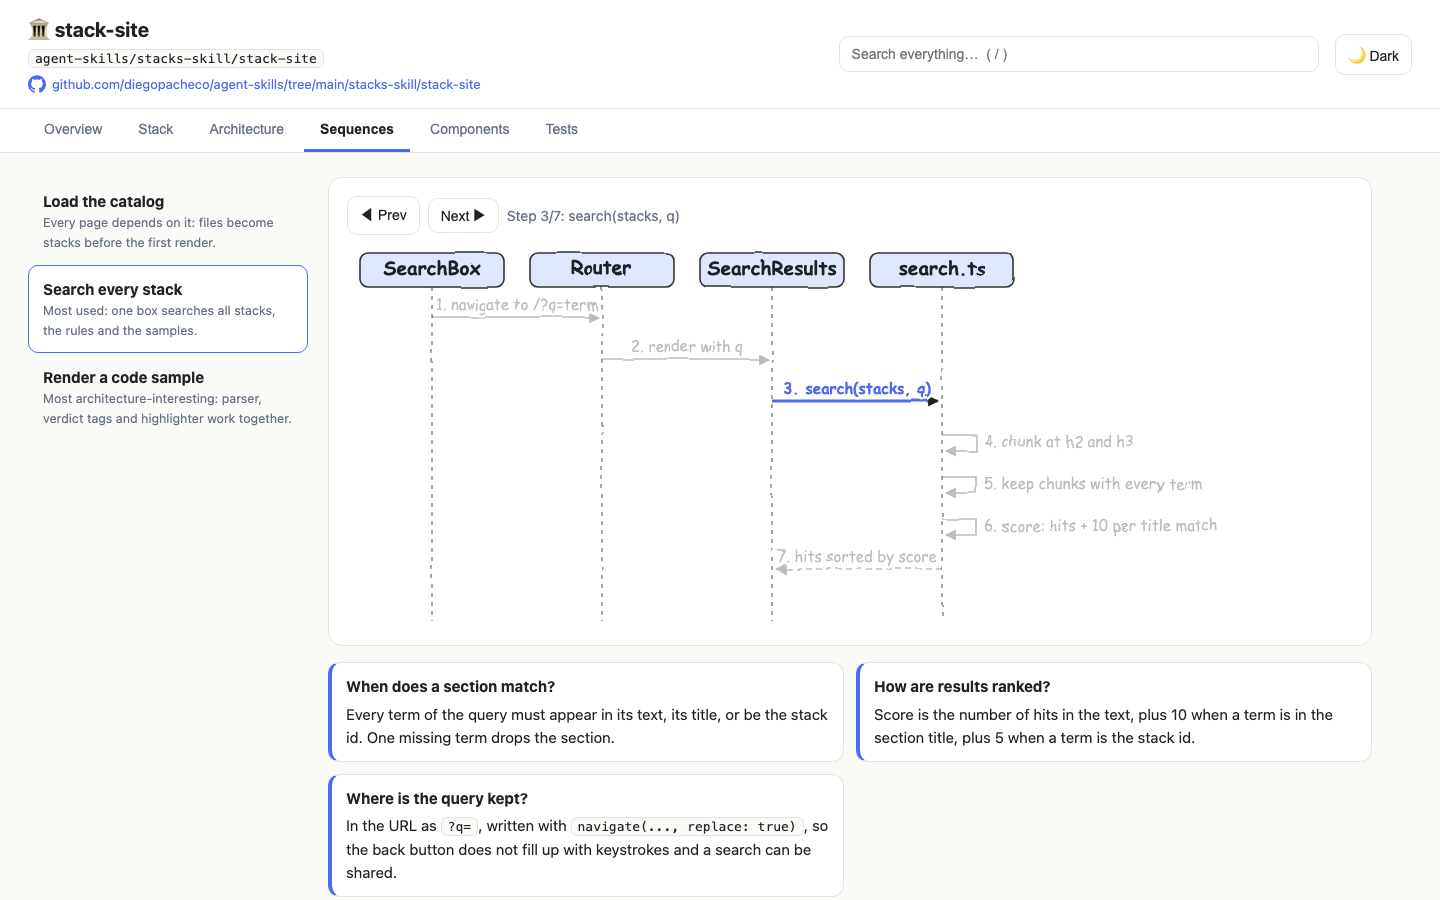
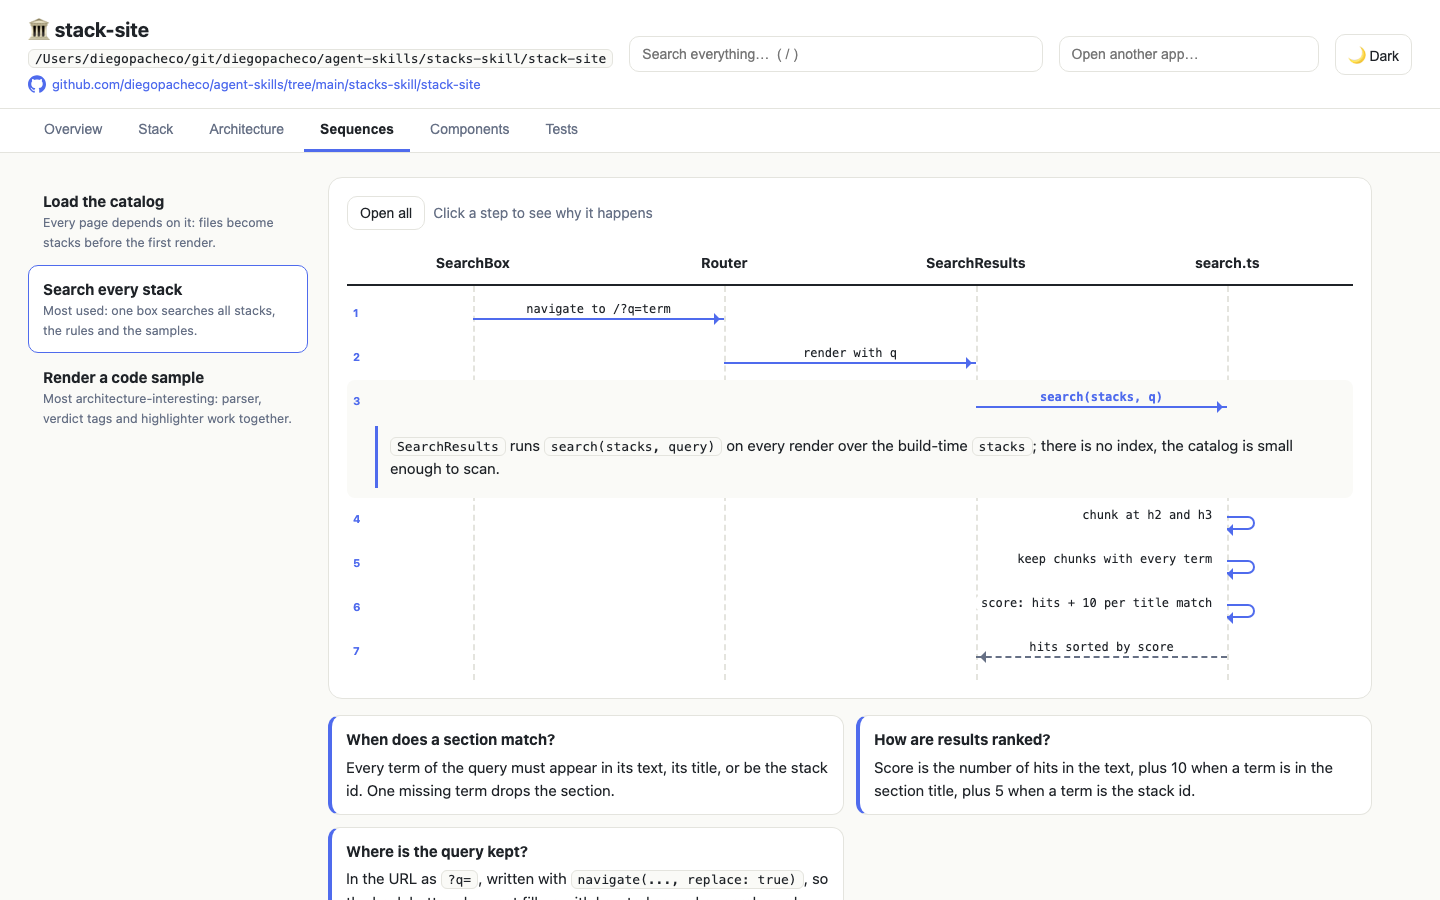
architecture-doc-skill: improve skill

diff --git a/architecture-docs-skill/template/site.html b/architecture-docs-skill/template/site.html
@@ -23,6 +23,14 @@ table{width:100%;border-collapse:collapse}td,th{text-align:left;padding:9px 10px
 .ico{width:18px;height:18px;flex:none}
 .tabs{display:flex;gap:4px;padding:0 28px;background:var(--card);border-bottom:1px solid var(--line);overflow-x:auto}.tabs button{border:0;background:none;color:var(--mute);padding:12px 16px;font-size:14px;cursor:pointer;border-bottom:3px solid transparent;white-space:nowrap}.tabs button.on{color:var(--ink);border-color:var(--acc);font-weight:700}
 .pane{padding:24px 28px;max-width:1400px}.md{display:grid;grid-template-columns:280px 1fr;gap:20px}.list div{padding:12px 14px;border-radius:10px;cursor:pointer;border:1px solid transparent}.list div:hover{background:var(--card)}.list div.on{background:var(--card);border-color:var(--acc)}.list small{display:block;color:var(--mute)}
+.swim .heads{display:grid;grid-template-columns:repeat(var(--n),1fr);position:sticky;top:0;background:var(--card);border-bottom:2px solid var(--ink);z-index:2}.swim .heads div{padding:10px 6px;text-align:center;font-weight:700;font-size:14px}
+.swim .rows{position:relative;padding:6px 0}.swim .rows>i{position:absolute;top:0;bottom:0;border-left:2px dashed var(--line)}
+.sl{position:relative;padding:12px 0 6px;cursor:pointer;border-radius:8px}.sl:hover{background:var(--bg)}.sl .num{position:absolute;left:6px;top:12px;font-size:11px;color:var(--acc)}
+.arw{position:relative;height:26px}.bar{position:absolute;top:14px;height:2px;background:var(--acc)}.bar:after{content:"";position:absolute;right:-2px;top:-5px;border:6px solid transparent;border-left-color:var(--acc)}
+.bar.back{background:none;border-top:2px dashed var(--mute);height:0}.bar.back:after{right:auto;left:-2px;top:-7px;border-left-color:transparent;border-right-color:var(--mute)}
+.bar.self{width:28px;height:14px;top:6px;background:none;border:2px solid var(--acc);border-left:0;border-radius:0 8px 8px 0}.bar.self:after{right:auto;left:-6px;top:6px;border-left-color:transparent;border-right-color:var(--acc)}
+.lbl{position:absolute;top:-2px;font:12px ui-monospace,Menlo,monospace;background:var(--card);padding:0 5px;white-space:nowrap;border-radius:4px}.lbl.mid{transform:translateX(-50%)}.lbl.lft{transform:translateX(-100%)}.sl:hover .lbl{background:var(--bg)}
+.sl .why{display:none;margin:8px 12px 4px 28px;border-left:3px solid var(--acc);background:var(--bg);padding:8px 12px;border-radius:0 8px 8px 0;cursor:auto}.sl.open .why{display:block}.sl.open .lbl{color:var(--acc);font-weight:700}
 .ctrl{display:flex;gap:8px;align-items:center;margin-bottom:12px}.ctrl span{color:var(--mute);font-size:14px}
 .about{margin-top:16px}.about h3{margin:0 0 8px}.about ol{margin:0;padding-left:22px}.about li{margin:4px 0}
 .notes{display:grid;grid-template-columns:1fr 1fr;gap:12px;margin-top:16px}.note{border:1px solid var(--line);border-left:4px solid var(--acc);border-radius:12px;padding:12px 14px;background:var(--card)}.note b{display:block;margin-bottom:4px}
@@ -74,19 +82,16 @@ function archSvg() {
   const nodes = ns.map(x => `<g class="node"><rect x="${x.x}" y="${x.y}" width="${NW}" height="${NH}" rx="10" fill="${KIND[x.kind] || KIND.core}"/><text x="${x.x + NW / 2}" y="${x.y + 26}" text-anchor="middle" class="t1"${fit(x.label, 16, NW - 14)}>${esc(x.label)}</text><text x="${x.x + NW / 2}" y="${x.y + 46}" text-anchor="middle" class="t2"${fit(x.sub || "", 21, NW - 14)}>${esc(x.sub)}</text></g>`).join("");
   return `<svg class="hand" viewBox="0 0 ${w} ${h}" style="max-width:${w * 1.4}px">${FILTER}<g filter="url(#wob)">${edges}${nodes}</g></svg>`;
 }
-function seqSvg(seq, active) {
-  const gap = 170, top = 50, row = 42, h = top + seq.steps.length * row + 30;
-  const xi = a => seq.actors.indexOf(a) * gap + gap / 2;
-  const selfEnd = seq.steps.flatMap(([f, t, l], i) => f === t ? [xi(f) + 42 + (String(i + 1).length + 2 + l.length) * 8] : []);
-  const w = Math.max(seq.actors.length * gap, ...selfEnd.map(x => x + 10));
-  const heads = seq.actors.map(a => `<rect x="${xi(a) - 72}" y="6" width="144" height="34" rx="8" fill="${KIND.core}"/><text x="${xi(a)}" y="28" text-anchor="middle" class="t1"${fit(a, 13, 130)}>${esc(a)}</text><line x1="${xi(a)}" y1="40" x2="${xi(a)}" y2="${h}" class="life"/>`).join("");
-  const msgs = seq.steps.map(([f, t, l], i) => {
-    const y = top + i * row + 20, x1 = xi(f), x2 = xi(t), dim = active >= 0 && i !== active ? 0.3 : 1;
-    if (f === t) return `<g class="msg ${i === active ? "lit" : ""}" opacity="${dim}"><path class="self" d="M${x1},${y - 8} h34 v16 h-30" marker-end="url(#arr)"/><text x="${x1 + 42}" y="${y + 4}">${i + 1}. ${esc(l)}</text></g>`;
-    const back = x2 < x1;
-    return `<g class="msg ${i === active ? "lit" : ""}" opacity="${dim}"><line x1="${x1}" y1="${y}" x2="${x2 + (back ? 4 : -4)}" y2="${y}" ${back ? 'stroke-dasharray="6 4"' : ""} marker-end="url(#arr)"/><text x="${(x1 + x2) / 2}" y="${y - 7}" text-anchor="middle">${i + 1}. ${esc(l)}</text></g>`;
+function lanes(seq, open) {
+  const n = seq.actors.length, mid = a => (seq.actors.indexOf(a) + 0.5) / n * 100;
+  const heads = seq.actors.map(a => `<div>${esc(a)}</div>`).join("");
+  const lines = seq.actors.map(a => `<i style="left:${mid(a)}%"></i>`).join("");
+  const rows = seq.steps.map(([f, t, l, why], i) => {
+    const a = mid(f), b = mid(t), lo = Math.min(a, b), self = f === t, back = b < a;
+    const bar = self ? `<span class="bar self" style="left:${a}%"></span>${a > 50 ? `<span class="lbl lft" style="left:calc(${a}% - 10px)">${esc(l)}</span>` : `<span class="lbl" style="left:calc(${a}% + 40px)">${esc(l)}</span>`}` : `<span class="bar${back ? " back" : ""}" style="left:${lo}%;width:${Math.abs(b - a)}%"></span><span class="lbl mid" style="left:${(a + b) / 2}%">${esc(l)}</span>`;
+    return `<div class="sl${open.has(i) ? " open" : ""}" data-st="${i}"><b class="num">${i + 1}</b><div class="arw">${bar}</div><div class="why">${rich(why)}</div></div>`;
   }).join("");
-  return `<svg class="hand" viewBox="0 0 ${w} ${h}" style="max-width:${w}px">${FILTER}<g filter="url(#wob)">${heads}${msgs}</g></svg>`;
+  return `<div class="swim" style="--n:${n}"><div class="heads">${heads}</div><div class="rows">${lines}${rows}</div></div>`;
 }
 
 const about = () => `<div class="card about"><h3>What this project does</h3><ol>${D.summary.map(s => `<li>${rich(s)}</li>`).join("")}</ol></div>`;
@@ -114,7 +119,7 @@ const seqExtra = s => `<div class="notes">${(s.notes || []).map(n => `<div class
 const list = (items, cur, kind) => `<div class="list">${items.map(x => `<div class="${x.id === cur ? "on" : ""}" data-${kind}="${esc(x.id)}"><b>${esc(x.title || x.name)}</b><small>${esc(plain(x.why || x.path))}</small></div>`).join("")}</div>`;
 
 const TABS = { overview: "Overview", stack: "Stack", arch: "Architecture", seq: "Sequences", comp: "Components", tests: "Tests" };
-const state = { tab: "overview", seq: D.sequences[0]?.id, step: -1, comp: D.components[0]?.id };
+const state = { tab: "overview", seq: D.sequences[0]?.id, open: new Set(), comp: D.components[0]?.id };
 function render() {
   tb.innerHTML = Object.entries(TABS).map(([k, v]) => `<button class="${k === state.tab ? "on" : ""}" data-k="${k}">${v}</button>`).join("");
   const s = D.sequences.find(x => x.id === state.seq), c = D.components.find(x => x.id === state.comp);
@@ -122,15 +127,15 @@ function render() {
     overview: `<p style="font-size:18px;margin-top:0">${rich(D.tagline)}</p>${about()}${locView()}`,
     stack: `<div class="stk">${stackView()}</div>`,
     arch: `<div class="card">${archSvg()}</div>${about()}`,
-    seq: s ? `<div class="md">${list(D.sequences, state.seq, "seq")}<div><div class="card"><div class="ctrl"><button class="btn" id="pv">◀ Prev</button><button class="btn" id="nx">Next ▶</button><span>${state.step < 0 ? "All steps" : `Step ${state.step + 1}/${s.steps.length}: ${esc(s.steps[state.step][2])}`}</span></div>${seqSvg(s, state.step)}</div>${seqExtra(s)}</div></div>` : "",
+    seq: s ? `<div class="md">${list(D.sequences, state.seq, "seq")}<div><div class="card"><div class="ctrl"><button class="btn" id="oa">${state.open.size === s.steps.length ? "Close all" : "Open all"}</button><span>Click a step to see why it happens</span></div>${lanes(s, state.open)}</div>${seqExtra(s)}</div></div>` : "",
     comp: c ? `<div class="md">${list(D.components, state.comp, "comp")}<div class="card"><h2 style="margin:0 0 6px">${esc(c.name)}</h2><p style="margin:0 0 14px"><code class="cp" title="Click to copy" data-path="${esc(full(c.path))}">${esc(full(c.path))}</code></p>${quad(c)}</div></div>` : "",
     tests: testsView()
   }[state.tab];
   tb.querySelectorAll("button").forEach(b => b.onclick = () => { state.tab = b.dataset.k; render(); });
-  p.querySelectorAll("[data-seq]").forEach(d => d.onclick = () => { state.seq = d.dataset.seq; state.step = -1; render(); });
+  p.querySelectorAll("[data-seq]").forEach(d => d.onclick = () => { state.seq = d.dataset.seq; state.open = new Set(); render(); });
   p.querySelectorAll("[data-comp]").forEach(d => d.onclick = () => { state.comp = d.dataset.comp; render(); });
   p.querySelectorAll(".cp").forEach(el => el.onclick = () => navigator.clipboard.writeText(el.dataset.path));
-  if (state.tab === "seq" && s) { nx.onclick = () => { state.step = (state.step + 1) % s.steps.length; render(); }; pv.onclick = () => { state.step = Math.max(-1, state.step - 1); render(); }; }
+  if (state.tab === "seq" && s) { oa.onclick = () => { state.open = state.open.size === s.steps.length ? new Set() : new Set(s.steps.map((x, i) => i)); render(); }; p.querySelectorAll("[data-st]").forEach(r => r.onclick = e => { if (e.target.closest(".why")) return; const i = +r.dataset.st; state.open.has(i) ? state.open.delete(i) : state.open.add(i); render(); }); }
   history.replaceState(null, "", "#" + state.tab);
 }
 
@@ -140,7 +145,7 @@ function searchIndex() {
     ...D.loc.langs.map(l => ({ sec: "Code", title: l.name, text: `${l.lines} lines ${l.files} files`, target: "overview" })),
     ...D.stack.map(s => ({ sec: "Stack", title: s.name, text: plain(`${s.layer} ${s.version} ${s.why}`), target: "stack" })),
     ...D.arch.nodes.map(n => ({ sec: "Architecture", title: n.label, text: n.sub || "", target: "arch" })),
-    ...D.sequences.map(s => ({ sec: "Sequence", title: s.title, text: plain([s.why, ...s.steps.map(x => x[2]), ...(s.notes || []).flatMap(n => [n.q, n.a]), ...(s.code || [])].join(" ")), target: "seq:" + s.id })),
+    ...D.sequences.map(s => ({ sec: "Sequence", title: s.title, text: plain([s.why, ...s.steps.flatMap(x => [x[2], x[3]]), ...(s.notes || []).flatMap(n => [n.q, n.a]), ...(s.code || [])].join(" ")), target: "seq:" + s.id })),
     ...D.components.map(c => ({ sec: "Component", title: c.name, text: plain([c.path, c.how, ...c.facts, ...c.right, ...c.better].join(" ")), target: "comp:" + c.id })),
     ...D.tests.kinds.map(t => ({ sec: "Tests", title: t.kind, text: plain(`${t.count} ${t.status} ${t.where || ""} ${t.note}`), target: "tests" }))
   ];
@@ -177,7 +182,7 @@ function mountApps() {
   document.addEventListener("click", e => { if (!ap.contains(e.target)) ar.hidden = true; });
   document.addEventListener("keydown", e => { if (e.key === "Escape") { ar.hidden = true; aq.blur(); } });
 }
-function go(t) { const [k, id] = t.split(":"); state.tab = k; if (k === "seq") { state.seq = id; state.step = -1; } if (k === "comp") state.comp = id; render(); }
+function go(t) { const [k, id] = t.split(":"); state.tab = k; if (k === "seq") { state.seq = id; state.open = new Set(); } if (k === "comp") state.comp = id; render(); }
 function mountTheme() {
   const set = t => { document.documentElement.dataset.theme = t; try { localStorage.setItem("adocs-theme", t); } catch (e) { } th.textContent = t === "dark" ? "☀ Light" : "🌙 Dark"; };
   let saved = "light"; try { saved = localStorage.getItem("adocs-theme") || "light"; } catch (e) { }

diff --git a/architecture-docs-skill/tests/test_scripts.py b/architecture-docs-skill/tests/test_scripts.py
@@ -26,7 +26,7 @@ def valid_doc(root):
     write(root, "src/a.rs", "fn a() {}\n")
     write(root, "src/b.rs", "fn b() {}\n")
     write(root, "src/c.rs", "fn c() {}\n")
-    seq = lambda i: {"id": f"s{i}", "title": f"Flow {i}", "why": "w", "actors": ["A", "B"], "steps": [["A", "B", "call"], ["B", "B", "self"], ["B", "A", "reply"], ["A", "A", "done"]], "notes": [{"q": "q1", "a": "a1"}, {"q": "q2", "a": "a2"}], "code": ["src/a.rs:1"]}
+    seq = lambda i: {"id": f"s{i}", "title": f"Flow {i}", "why": "w", "actors": ["A", "B"], "steps": [["A", "B", "call", "why call"], ["B", "B", "self", "why self"], ["B", "A", "reply", "why reply"], ["A", "A", "done", "why done"]], "notes": [{"q": "q1", "a": "a1"}, {"q": "q2", "a": "a2"}], "code": ["src/a.rs:1"]}
     comp = lambda i, f: {"id": f"c{i}", "name": f"C{i}", "path": f, "how": "h", "facts": ["f"], "right": ["r"], "better": ["b"]}
     return {
         "project": "P", "path": root, "repo": "", "tagline": "t", "summary": ["one", "two", "three"],
@@ -109,8 +109,22 @@ class ValidateTest(unittest.TestCase):
     def test_a_step_with_an_unknown_actor_fails_because_the_diagram_would_draw_nothing(self):
         with tempfile.TemporaryDirectory() as root:
             doc = valid_doc(root)
-            doc["sequences"][0]["steps"].append(["A", "Ghost", "call"])
+            doc["sequences"][0]["steps"].append(["A", "Ghost", "call", "why"])
             with self.assertRaisesRegex(build.DataError, "actor not in actors"):
+                build.validate(doc)
+
+    def test_a_step_without_why_fails_because_clicking_a_swimlane_arrow_must_explain_it(self):
+        with tempfile.TemporaryDirectory() as root:
+            doc = valid_doc(root)
+            doc["sequences"][0]["steps"][0] = ["A", "B", "call"]
+            with self.assertRaisesRegex(build.DataError, "every step is"):
+                build.validate(doc)
+
+    def test_an_empty_why_fails_because_the_open_step_would_show_nothing(self):
+        with tempfile.TemporaryDirectory() as root:
+            doc = valid_doc(root)
+            doc["sequences"][0]["steps"][0] = ["A", "B", "call", ""]
+            with self.assertRaisesRegex(build.DataError, "why is required"):
                 build.validate(doc)
 
     def test_two_nodes_in_the_same_cell_fail_because_they_would_overlap(self):

diff --git a/architecture-docs-skill/scripts/build.py b/architecture-docs-skill/scripts/build.py
@@ -75,8 +75,11 @@ def validate(doc):
         need(len(s["actors"]) <= 6, f"sequence {s['id']}: at most 6 actors")
         between(s["steps"], 4, 10, f"sequence {s['id']} steps")
         between(s.get("notes", []), 2, 6, f"sequence {s['id']} notes")
-        for f, t, label in s["steps"]:
+        for step in s["steps"]:
+            need(isinstance(step, list) and len(step) == 4, f"sequence {s['id']}: every step is [from, to, label, why], got {step}")
+            f, t, label, why = step
             short(label, 40, f"sequence {s['id']} step")
+            need(why and len(why) <= 400, f"sequence {s['id']} step \"{label}\": why is required, at most 400 characters")
             need(f in s["actors"] and t in s["actors"], f"sequence {s['id']}: step {f} -> {t} uses an actor not in actors")
         for rel in s.get("code", []):
             exists(project, rel, f"sequence {s['id']}")

diff --git a/architecture-docs-skill/SKILL.md b/architecture-docs-skill/SKILL.md
@@ -31,7 +31,7 @@ Report progress as `x/7` while you work.
 1. **Map the project.** List the tree (skip `node_modules`, `target`, `dist`, `build`, `.git`). Read the README, design docs, build files (`package.json`, `Cargo.toml`, `pom.xml`, `build.gradle*`, `go.mod`, `pyproject.toml`, `requirements.txt`, `build.sbt`, `Containerfile`, compose files) and the entry points.
 2. **Stack.** One entry per technology that matters: languages, frameworks, databases, queues, runtimes, desktop shells, test tools, AI providers. Take versions from the build files. `why` is one line about what it does in this project.
 3. **Architecture.** Find the real runtime pieces: processes, services, modules with their own job, stores, external systems, and who calls whom. Lay them out left to right in the order a request flows.
-4. **Sequences.** Pick 3-5 flows: the most critical (breaks the product when it fails), the most used, and the most architecture-interesting (crosses processes, queues, schedulers, retries, caches). Follow each one through the code, step by step. For each flow, write the notes a reader will ask after looking at the diagram: how is X decided, where is the state stored, what happens on failure, what runs in parallel, what limits apply. Answer with the real query, column, constant or function name.
+4. **Sequences.** Pick 3-5 flows: the most critical (breaks the product when it fails), the most used, and the most architecture-interesting (crosses processes, queues, schedulers, retries, caches). Follow each one through the code, step by step, and write the `why` of every step from the code you read. For each flow, write the notes a reader will ask after looking at the diagram: how is X decided, where is the state stored, what happens on failure, what runs in parallel, what limits apply. Answer with the real query, column, constant or function name.
 5. **Components.** Pick 3-5 components that are critical or have interesting design. Read them fully.
 6. **Tests.** Count tests per kind from the code (see Test analysis). Find the command that runs them.
 7. **Build and check.** Write `data.json` in the scratch or temp folder, never inside the project, then run:
@@ -63,7 +63,7 @@ Set `loc_exclude` to a list of folders (`"generated/"`) or globs (`"reports/*.ht
     {
       "id": "checkout", "title": "Checkout", "why": "Why this flow was picked, one line.",
       "actors": ["Web", "Orders API", "Postgres"],
-      "steps": [ ["Web", "Orders API", "POST /orders"], ["Orders API", "Orders API", "apply price rules"], ["Orders API", "Postgres", "insert order"] ],
+      "steps": [ ["Web", "Orders API", "POST /orders", "The cart is sent once with an `Idempotency-Key` header, so a retry after a timeout cannot charge twice."], ["Orders API", "Orders API", "apply price rules", "`PriceRules.apply` runs coupons before tax because tax is owed on the discounted price."], ["Orders API", "Postgres", "insert order", "One transaction writes `orders` and `order_lines`; a unique index on `idempotency_key` turns a duplicate into a 409."] ],
       "notes": [ { "q": "What stops a double submit?", "a": "A unique index on `orders.idempotency_key`." } ],
       "code": ["src/main/java/shop/OrderController.java", "src/main/java/shop/OrderRepository.java:40"]
     }
@@ -95,7 +95,8 @@ Set `loc_exclude` to a list of folders (`"generated/"`) or globs (`"reports/*.ht
 * `stack[].url`: the official site or repo, `""` when there is none. `local` is only for a dependency that lives at a local path, written relative to the project folder (`../billing-lib`), never for the project's own code.
 * `arch.nodes`: 6-12 nodes. A server the project starts itself (a local workflow engine, a database container) is `data` or `external` by what it is, not by who starts it. `label` at most 16 characters, `sub` at most 21. `col` 0-5 from left to right in request order, `row` 0-4 top to bottom; halves like `0.5` are allowed; two nodes never share a cell. `kind` is one of `actor` (people, shells, clients), `edge` (UI, gateways, routers), `core` (services, workers, modules), `data` (databases, caches, files), `external` (third-party APIs, the web, other systems).
 * `arch.edges`: `[from, to, label]`, label at most 10 characters or `""`. Keep long edges free of labels.
-* `sequences`: 3-5 flows, at most 6 actors each, 4-10 steps, step labels at most 40 characters. A step from an actor to itself draws a loop. `notes`: 2-6 per flow. `code`: the files the flow runs through, `path:line` allowed.
+* `sequences`: 3-5 flows, at most 6 actors each, 4-10 steps. Every step is `[from, to, label, why]`: label at most 40 characters, `why` 1-2 sentences, at most 400 characters. A step from an actor to itself draws a loop.
+* `why` is what the reader sees when they click the arrow: why this step exists, what it decides, what limit or failure it handles, with the real function, column or constant. Never repeat the label. Read the code for every step; never write a `why` you did not see in the code. `notes`: 2-6 per flow. `code`: the files the flow runs through, `path:line` allowed.
 * `components`: 3-5.
 * `tests.kinds`: always these 11 kinds in this order, nothing else before them: `Unit`, `Integration`, `Mocks / fakes`, `Database`, `E2E / UI`, `Contract`, `Property based`, `Stress / load`, `Chaos`, `CSS / visual`, `Fuzz / security`. Add `Snapshot` or other kinds after them only when the project has them.
 
@@ -130,4 +131,4 @@ Count tests, not files. Use the patterns of the project's language and read a sa
 * `<out-dir>/run.sh`: serves the parent folder on `127.0.0.1` from port 8790 up (the next free port), so every site there is reachable from one server, and opens this site.
 * `<out-dir>/stop.sh`: stops that shared server.
 
-The site has tabs for Overview (summary and lines of code per language), Stack, Architecture, Sequences (step by step with Prev / Next, notes and code files), Components and Tests. `/` or `Cmd+K` searches everything. The `Open another app…` box searches the other sites built next to it and opens their architecture diagram. The theme toggle remembers light or dark.
+The site has tabs for Overview (summary and lines of code per language), Stack, Architecture, Sequences (swimlanes: one lane per actor, one arrow per step, click an arrow to open its why; Open all; notes and code files), Components and Tests. `/` or `Cmd+K` searches everything. The `Open another app…` box searches the other sites built next to it and opens their architecture diagram. The theme toggle remembers light or dark.

diff --git a/architecture-docs-skill/README.md b/architecture-docs-skill/README.md
@@ -20,7 +20,7 @@ A skill for Claude Code and Codex that reads a codebase and generates a self-con
 * **Overview:** 3-5 lines on what the project does and the lines of code per language with logos, file counts and percentages, so you see the size and shape first.
 * **Stack:** one card per technology, grouped by layer, with its logo, version, link to its site and why the project uses it.
 * **Architecture:** a hand-drawn diagram laid out left to right in request order, colored by kind (actors, edges, core, data, external).
-* **Sequences:** 3-5 flows picked because they are critical, most used or architecturally interesting. Prev / Next walks the diagram one step at a time, and notes under it answer the questions the diagram raises with the real query, column or constant.
+* **Sequences:** 3-5 flows picked because they are critical, most used or architecturally interesting. Swimlanes draw one lane per actor and one arrow per step; clicking an arrow opens why that step happens, Open all opens every step, and notes under it answer the questions the diagram raises with the real query, column or constant.
 * **Components:** 3-5 deep dives, each with the full path to the code and four boxes: how it works, interesting facts, what it gets right, what could be better.
 * **Tests:** counters for 11 test kinds (unit, integration, mocks / fakes, database, E2E / UI, contract, property based, stress / load, chaos, CSS / visual, fuzz / security), the command that runs them, and where each missing kind would pay off.
 * **Header:** the full path of the project (click to copy) and its GitHub link when the remote is on GitHub.
@@ -115,7 +115,7 @@ Generated for [stacks-skill/stack-site](../stacks-skill/stack-site), the stack c
 
 ![architecture](printscreens/03-architecture.png)
 
-**Sequences:** the search flow at step 3 of 7 with Prev / Next. The step is highlighted and the others fade. Notes under the diagram explain how a section matches, how results are ranked and where the query lives.
+**Sequences:** the search flow as swimlanes, with one step opened to show its why. Notes under the diagram explain how a section matches, how results are ranked and where the query lives.
 
 ![sequences](printscreens/04-sequences.png)
 
